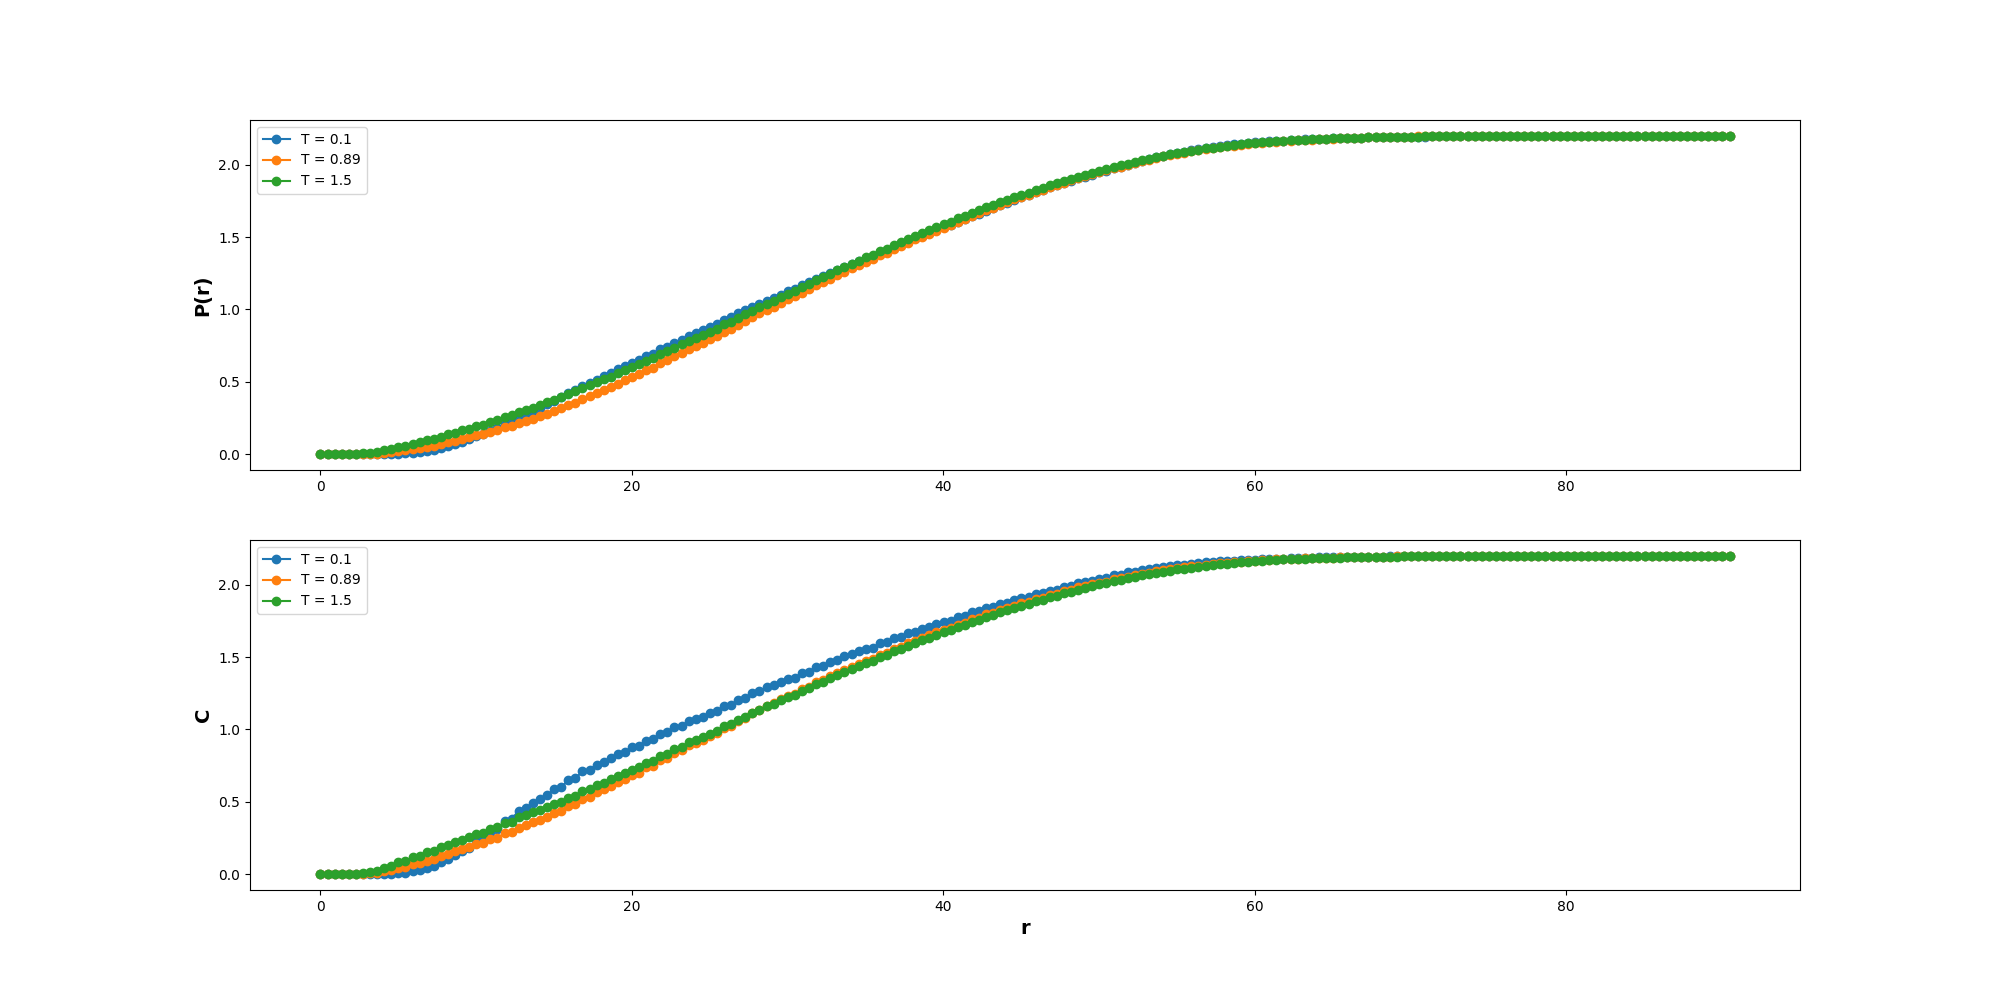
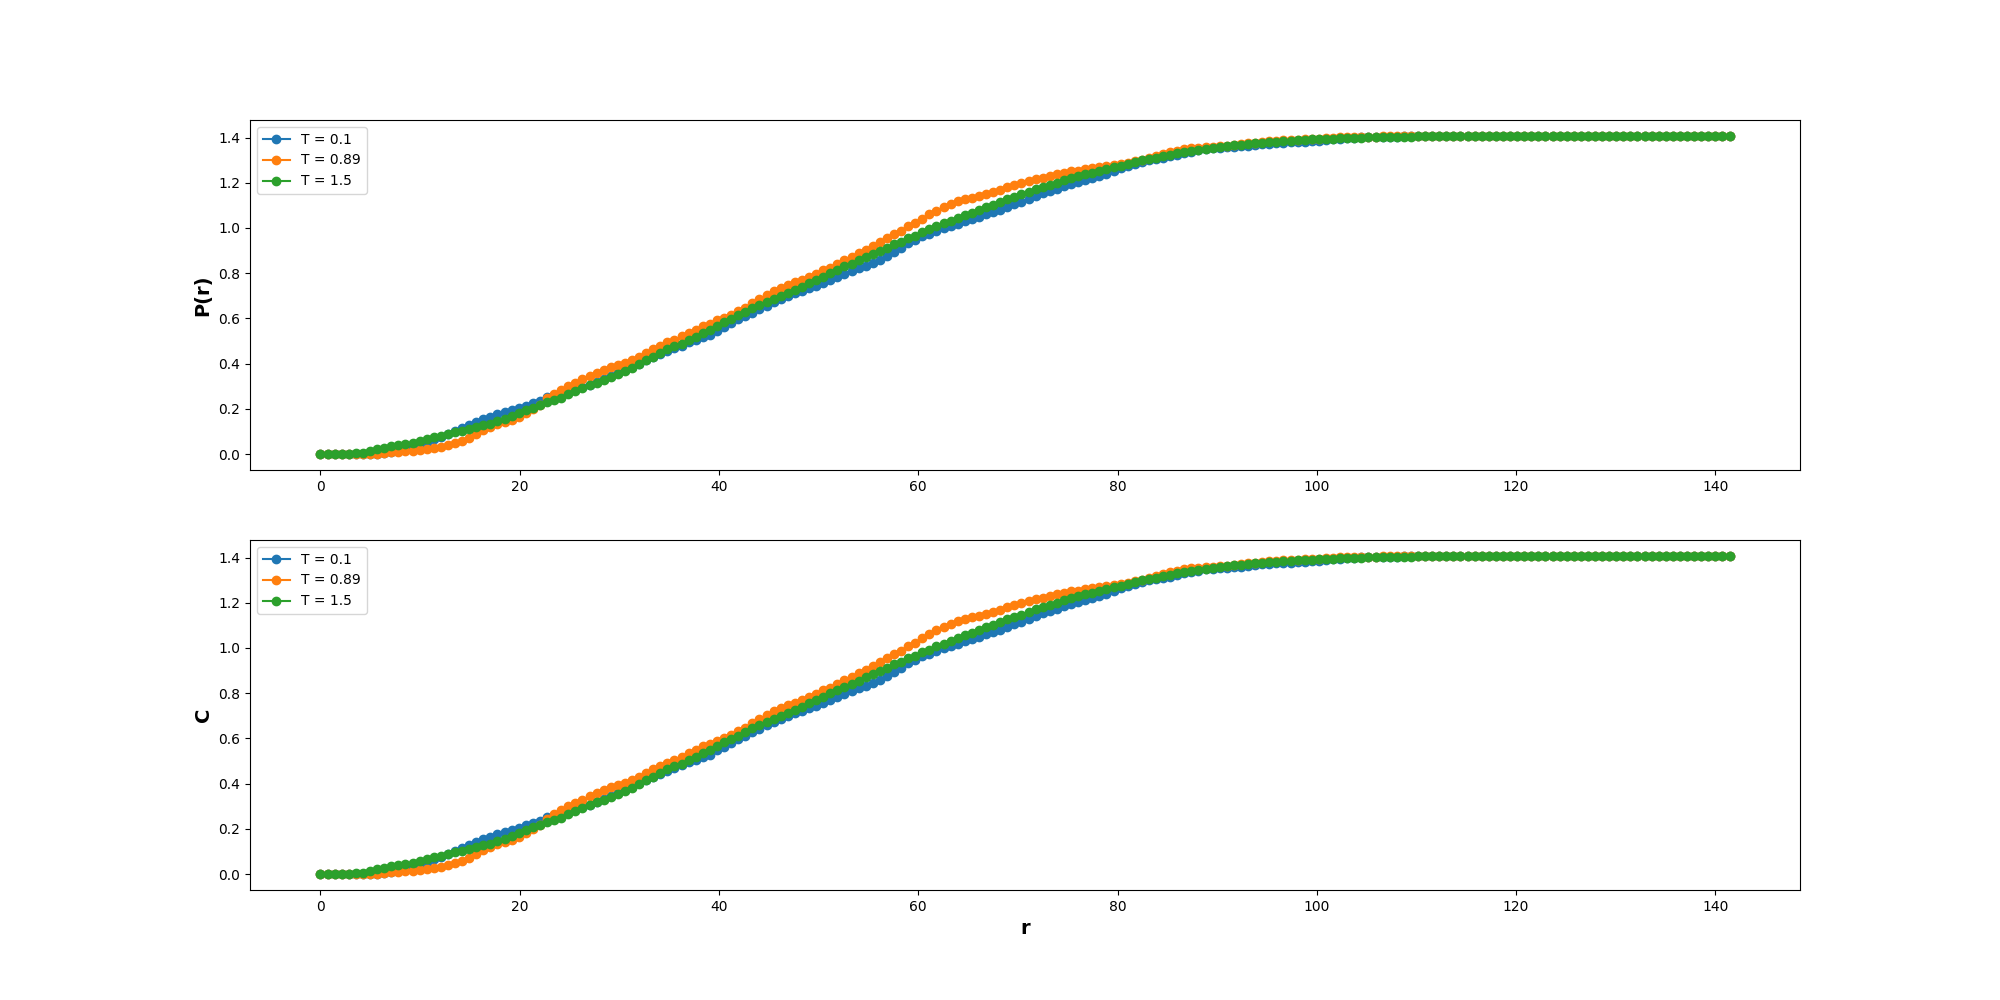
New Results on corrected form of correlation

diff --git a/1stTry.py b/1stTry.py
@@ -52,8 +52,8 @@ def find_local_ext(x):
     maxim_cu = np.zeros([N, N])
     minima = []
     minim_cu = np.zeros([N, N])
-    up_th = np.max(x) * 0.5
-    down_th = np.min(x) * 0.5
+    up_th = np.max(x) * 0.8
+    down_th = np.min(x) * 0.8
     for i in range(N):
         for j in range(N):
             if (x[i, j] >= up_th):
@@ -77,7 +77,7 @@ def find_distribution(cu, min_loc, max_loc, max_dist, bins=200):
                  (max_loc[i, 1] - min_loc[j, 1])**2)**(0.5)
             r = (int)(d / dr)
             p[r] += 1
-            c[r] += (cu[max_loc[i, 0], min_loc[j, 1]] * cu[max_loc[i, 0], min_loc[j, 1]])
+            c[r] += (cu[max_loc[i, 0], max_loc[i, 1]] * cu[min_loc[j, 0], min_loc[j, 1]])
     p /= (sum(p) * dr)
     c /= (sum(c) * dr)
     return np.cumsum(p), np.cumsum(c)
@@ -144,8 +144,8 @@ def do_monte_carlo(temp, N):
 
 # %%
 temp = [0.1, 0.89, 1.5]
-N = 64
-ensemble = 500
+N = 100
+ensemble = 100
 bins = 200
 P_r = []
 C_r = []
